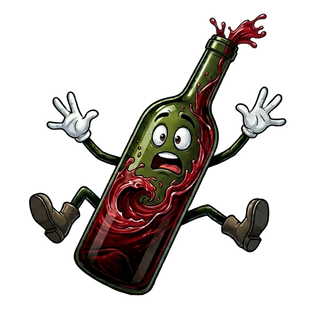
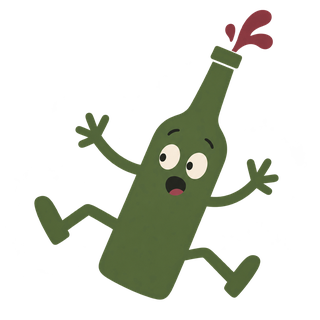
New simpler and flatter mascot.

diff --git a/crates/frontend/public/stylesheet.css b/crates/frontend/public/stylesheet.css
@@ -45,7 +45,6 @@
 
     --shadow-card: rgba(0, 0, 0, 0.05);
     --shadow-focus: var(--shadow-card);
-    --img-glow-for-dark-mode: rgba(255, 255, 255, 0.12);
 
     --accent-vin: #6b8a6f;
     --accent-tax: #a07830;
@@ -536,10 +535,6 @@ img {
 img.fallback {
     max-width: 100%;
     mix-blend-mode: normal;
-}
-[data-theme="dark"] .img-wrap img {
-    filter: drop-shadow(0 0 3px var(--img-glow-for-dark-mode));
-    mix-blend-mode: screen;
 }
 
 :has(> img),

diff --git a/crates/frontend/public/images/scale.py b/crates/frontend/public/images/scale.py
@@ -1,0 +1,29 @@
+# /// script
+# requires-python = ">=3.14"
+# dependencies = [
+#     "pillow>=12.3.0",
+# ]
+# ///
+import os
+from PIL import Image
+
+def scale(source):
+    sizes = [44, 64, 150, 320, 512, 640, 800]
+
+    directory = os.path.dirname(os.path.abspath(__file__))
+    with Image.open(os.path.join(directory, source)) as img:
+        for size in sizes:
+            resized = img.resize((size, size), Image.Resampling.LANCZOS)
+            resized.save(os.path.join(directory, f"{size}x{size}.png"), "PNG")
+            print(f"Generated: {size}")
+
+        favicon = os.path.join(directory, "favicon.ico")
+        img.save(
+            favicon,
+            format="ICO",
+            sizes=[(16, 16), (32, 32), (48, 48), (64, 64)]
+        )
+        print("Generated: favicon")
+
+if __name__ == "__main__":
+    scale("snublejuice.png")
